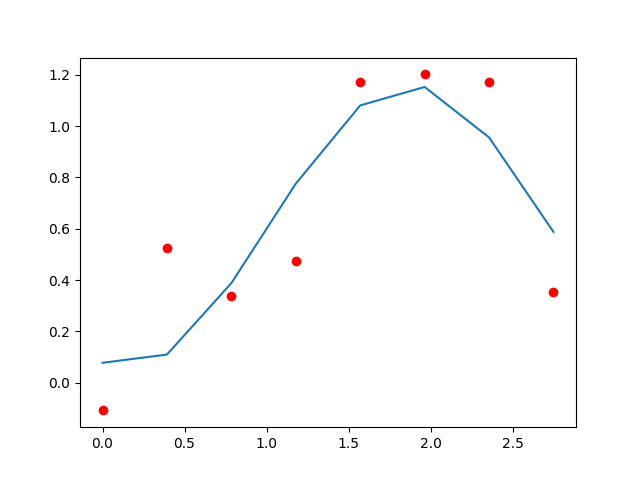
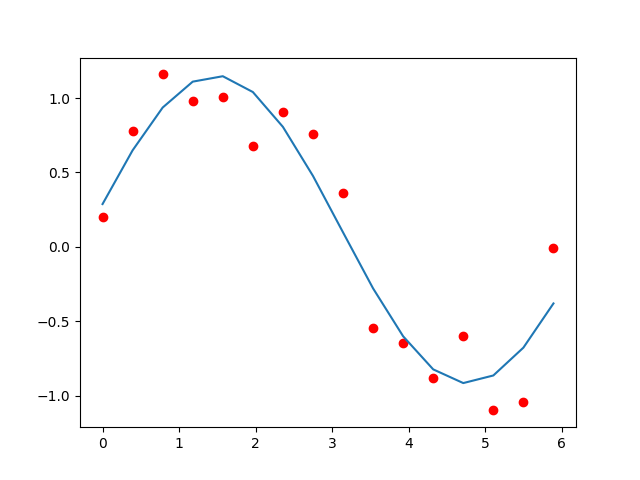
change max angle to 2pi

diff --git a/Fitting/fit_test_simple.py b/Fitting/fit_test_simple.py
@@ -11,7 +11,7 @@ def noise(amount):
     return (np.random.random()-0.5)*amount
 
 # Generate data for function with noise
-xdata = np.array([n*np.pi/8 for n in range(8)])  
+xdata = np.array([n*np.pi/8 for n in range(16)])  
 ydata = np.array([np.sin(x)+noise(1) for x in xdata])
 
 # Fit data
